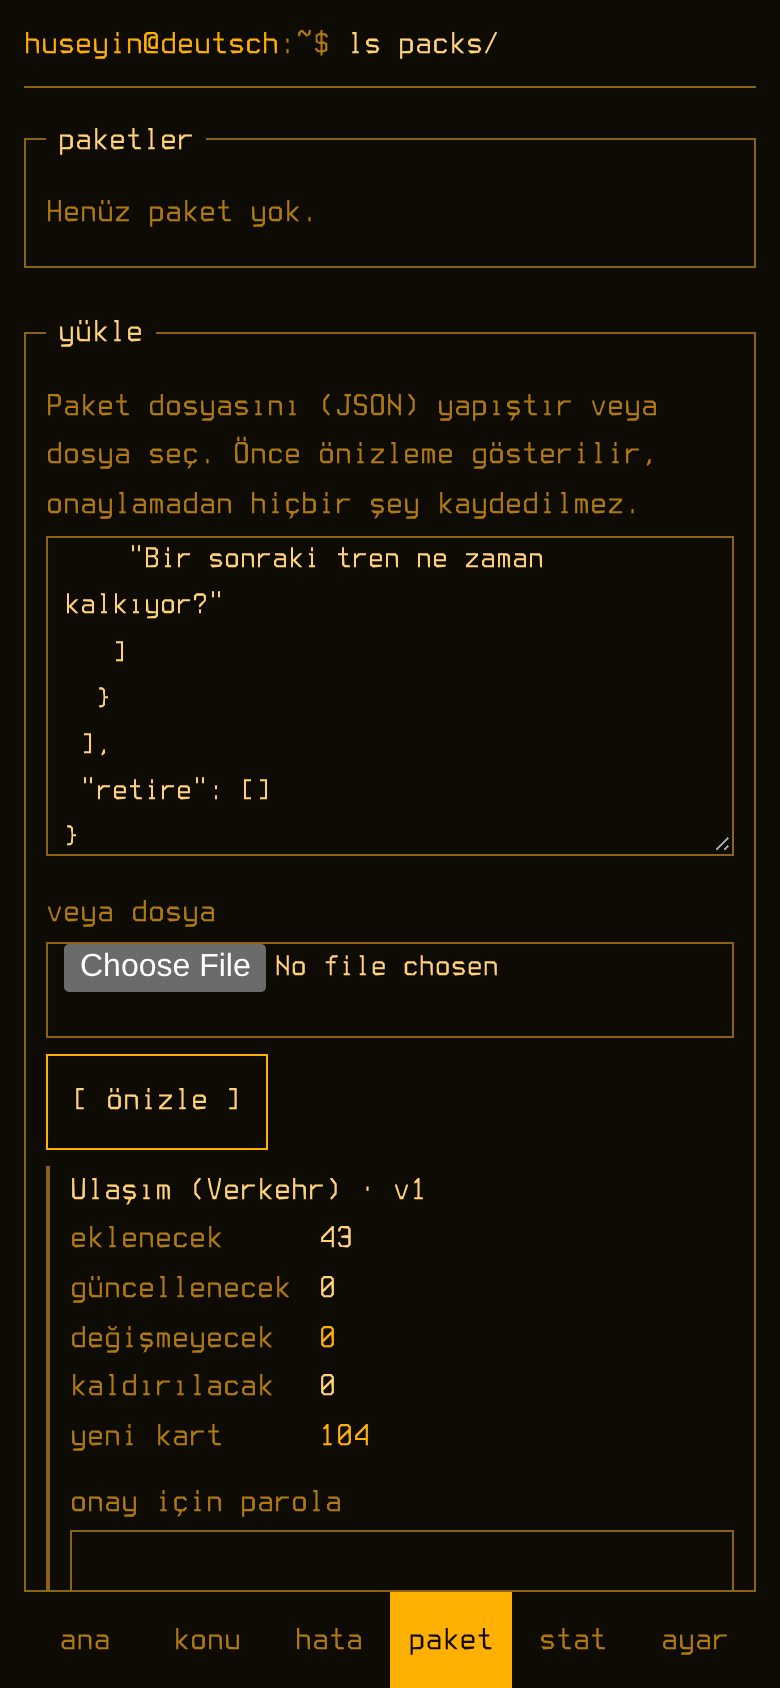
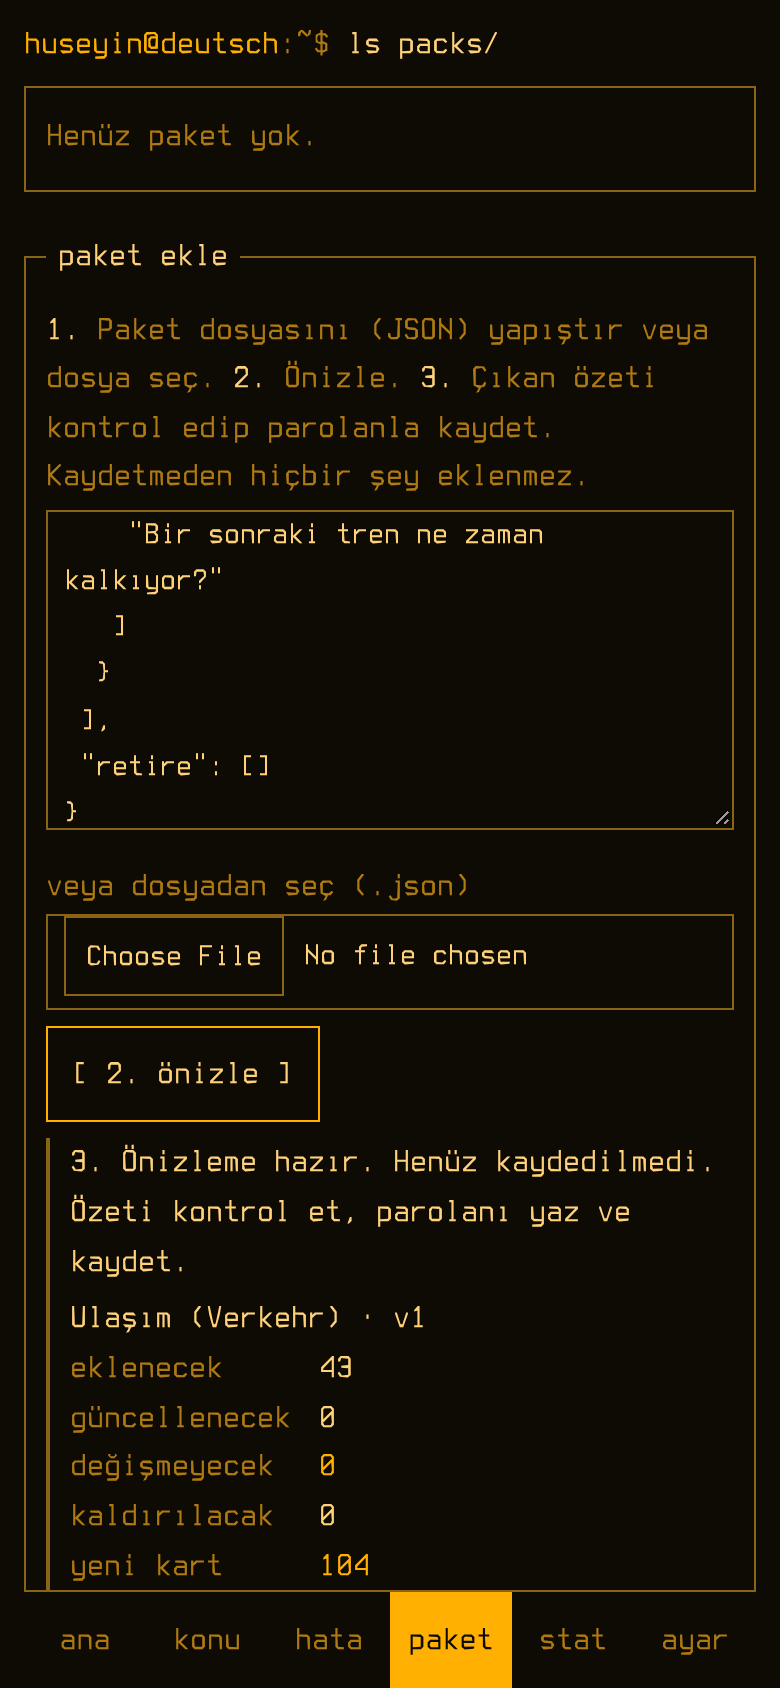
Paket ekleme ekranı: numaralı adımlar, otomatik kaydırma, 'paketi kaydet' düğmesi
Claude-Session: https://claude.ai/code/session_01NHAv7kDi6tjo58F4ejNote

diff --git a/src/client/screens/Packs.tsx b/src/client/screens/Packs.tsx
@@ -1,4 +1,4 @@
-import { useEffect, useState } from 'preact/hooks';
+import { useEffect, useRef, useState } from 'preact/hooks';
 import { api } from '../api.ts';
 import type { Ctx } from '../main.tsx';
 import { Screen, fmtDate } from '../ui.tsx';
@@ -13,6 +13,8 @@ export function Packs({ ctx }: { ctx: Ctx }) {
   const [msg, setMsg] = useState('');
   const [busy, setBusy] = useState(false);
   const [undoId, setUndoId] = useState<number | null>(null);
+  const confirmRef = useRef<HTMLDivElement>(null);
+  useEffect(() => { if (plan) setTimeout(() => confirmRef.current?.scrollIntoView({ behavior: 'smooth', block: 'start' }), 50); }, [plan]);
 
   const load = () => api('GET', '/api/packs').then((r) => r.status === 200 && setD(r.data));
   useEffect(() => { load(); }, []);
@@ -34,7 +36,7 @@ export function Packs({ ctx }: { ctx: Ctx }) {
     setBusy(true); setErrs([]);
     const r = await api('POST', '/api/packs/import', { raw, reset_progress: reset, reauth: { password: pw } });
     setBusy(false); setPw('');
-    if (r.status === 200) { setMsg('yüklendi. Paketi etkinleştirmeyi unutma.'); setPlan(null); setRaw(''); load(); }
+    if (r.status === 200) { setMsg('Paket kaydedildi. Şimdi aşağıdaki listeden [ ] pasif düğmesine basıp etkinleştir.'); setPlan(null); setRaw(''); load(); }
     else if (r.status === 403) setErrs(['Parola yanlış']);
     else setErrs(r.data?.errors ?? [r.data?.error ?? 'başarısız']);
   };
@@ -62,16 +64,17 @@ export function Packs({ ctx }: { ctx: Ctx }) {
       </fieldset>
 
       <fieldset>
-        <legend>yükle</legend>
-        <p class="dim">Paket dosyasını (JSON) yapıştır veya dosya seç. Önce önizleme gösterilir, onaylamadan hiçbir şey kaydedilmez.</p>
+        <legend>paket ekle</legend>
+        <p class="dim"><b>1.</b> Paket dosyasını (JSON) yapıştır veya dosya seç. <b>2.</b> Önizle. <b>3.</b> Çıkan özeti kontrol edip parolanla kaydet. Kaydetmeden hiçbir şey eklenmez.</p>
         <textarea value={raw} placeholder='{"standard":"deutsch-pack/1", …}' spellcheck={false} autocapitalize="off" autocorrect="off" aria-label="paket JSON"
           onInput={(e) => { setRaw((e.target as HTMLTextAreaElement).value); setPlan(null); setErrs([]); }} />
-        <label for="pf">veya dosya</label>
+        <label for="pf">veya dosyadan seç (.json)</label>
         <input id="pf" type="file" accept="application/json,.json" onChange={onFile} />
-        <div class="btns"><button class="btn pri" disabled={!raw.trim() || busy} onClick={dry}>[ önizle ]</button></div>
+        <div class="btns"><button class="btn pri" disabled={!raw.trim() || busy} onClick={dry}>[ 2. önizle ]</button></div>
         {errs.length > 0 && <div class="errbox" role="alert">{errs.map((e) => <div key={e}>{e}</div>)}</div>}
         {plan && (
-          <div class="man">
+          <div class="man" ref={confirmRef}>
+            <p class="hi"><b>3. Önizleme hazır.</b> Henüz kaydedilmedi. Özeti kontrol et, parolanı yaz ve kaydet.</p>
             <div class="mh">{plan.pack.title} · v{plan.pack.version}</div>
             <div class="kv">
               <span>eklenecek</span><b>{plan.add}</b>
@@ -87,9 +90,9 @@ export function Packs({ ctx }: { ctx: Ctx }) {
                 <label><input type="checkbox" checked={reset} onChange={(e) => setReset((e.target as HTMLInputElement).checked)} /> bu itemların ilerlemesini sıfırla</label>
               </>
             )}
-            <label for="rp">onay için parola</label>
+            <label for="rp">parolan (kaydetmek için onay)</label>
             <input id="rp" type="password" autocomplete="current-password" value={pw} onInput={(e) => setPw((e.target as HTMLInputElement).value)} />
-            <div class="btns"><button class="btn pri" disabled={!pw || busy} onClick={doImport}>[ yükle ]</button></div>
+            <div class="btns"><button class="btn pri" disabled={!pw || busy} onClick={doImport}>[ paketi kaydet ]</button></div>
           </div>
         )}
       </fieldset>

diff --git a/src/client/style.css b/src/client/style.css
@@ -165,3 +165,5 @@ select { background: var(--bg); color: var(--hi); border: 1px solid var(--line);
 .term.has-nav > main { overflow-y: auto; min-height: 0; overscroll-behavior: contain; }
 .term.has-nav .nav { position: static; flex: none; }
 .term.has-nav > .prompt { flex: none; }
+
+input[type='file']::file-selector-button { background: transparent; color: var(--hi); border: 1px solid var(--line); min-height: 40px; padding: 0 10px; margin-right: 10px; font: inherit; }

diff --git a/docs/PAKET_REHBERI.md b/docs/PAKET_REHBERI.md
@@ -107,8 +107,8 @@ Sen bir yapay zekâ asistanısın. Görevin: kullanıcının anlattığı Almanc
 
 ## 7. Kullanıcı paketi nasıl yükler
 1. Uygulamada **paket** sekmesine gir.
-2. JSON'u kutuya yapıştır (veya dosya olarak seç) ve **önizle**'ye bas. Hata varsa liste halinde gösterilir; hatayı düzeltip yeniden dene.
-3. Özet doğruysa parolayı yaz ve **yükle**'ye bas.
+2. JSON'u kutuya yapıştır (veya dosya olarak seç) ve **2. önizle**'ye bas. Hata varsa liste halinde gösterilir; hatayı düzeltip yeniden dene.
+3. Önizleme gelince ekran otomatik aşağı kayar. Özet doğruysa parolanı yazıp **paketi kaydet**'e bas. (Kaydetmeden hiçbir şey eklenmez.)
 4. Yüklenen paket başta **pasif** gelir. Listeden **etkinleştir**; ondan sonra kartlar çalışmaya girer.
 
 ## 8. Bir paketi düzeltmek veya genişletmek
